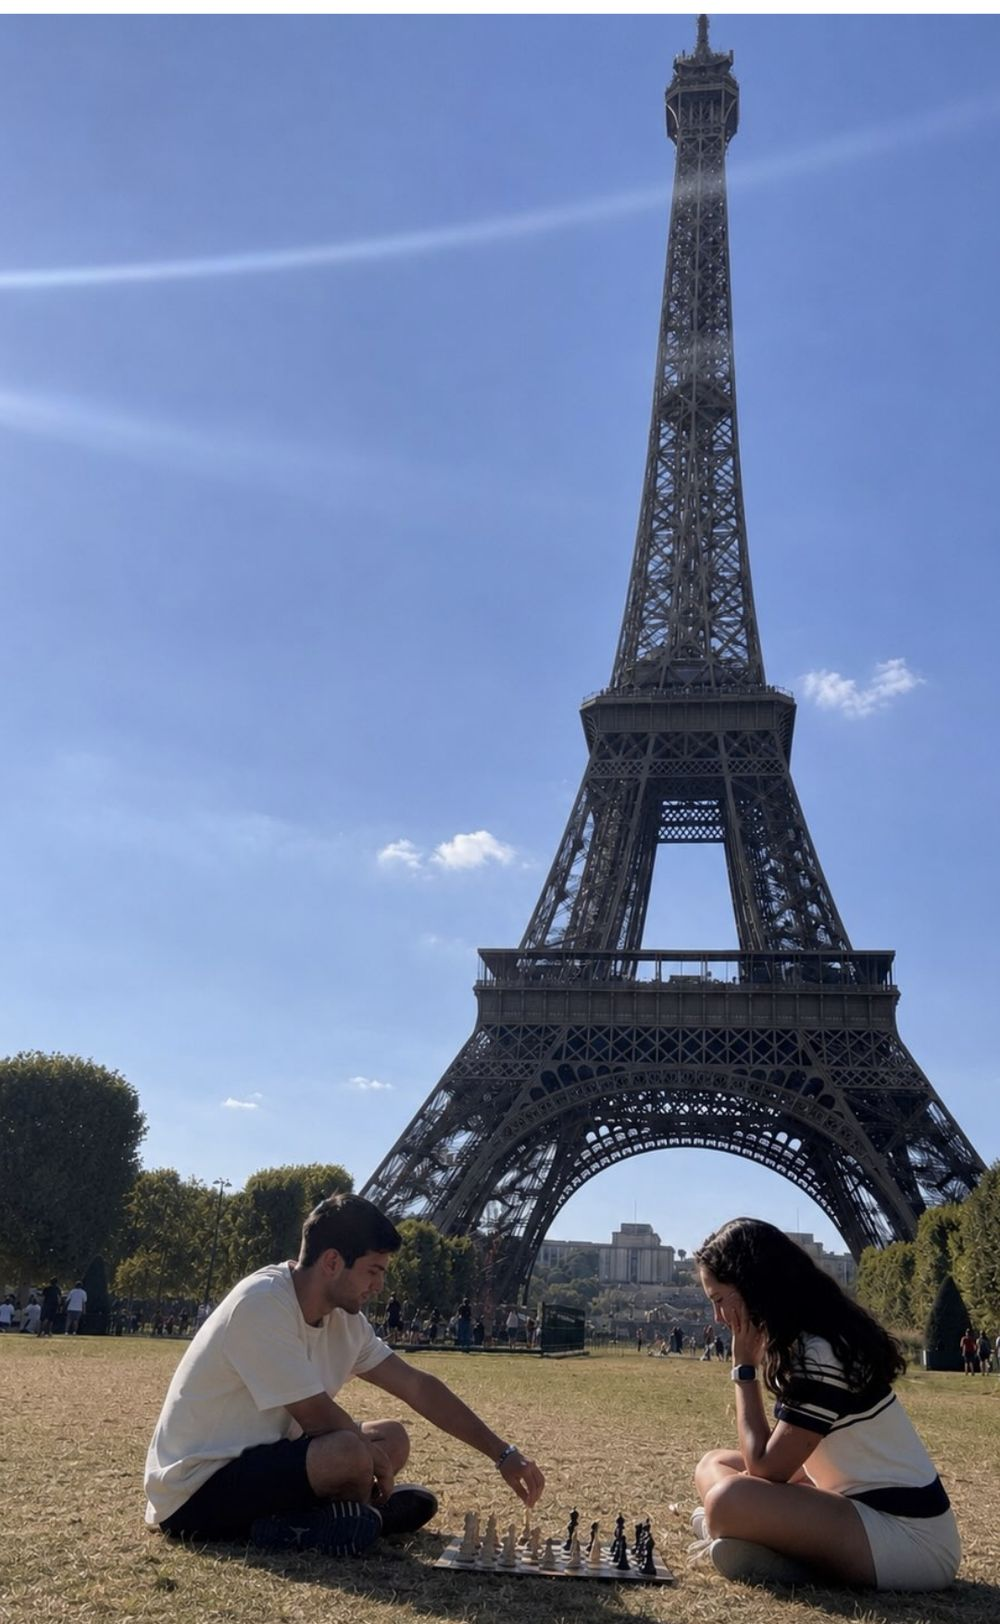
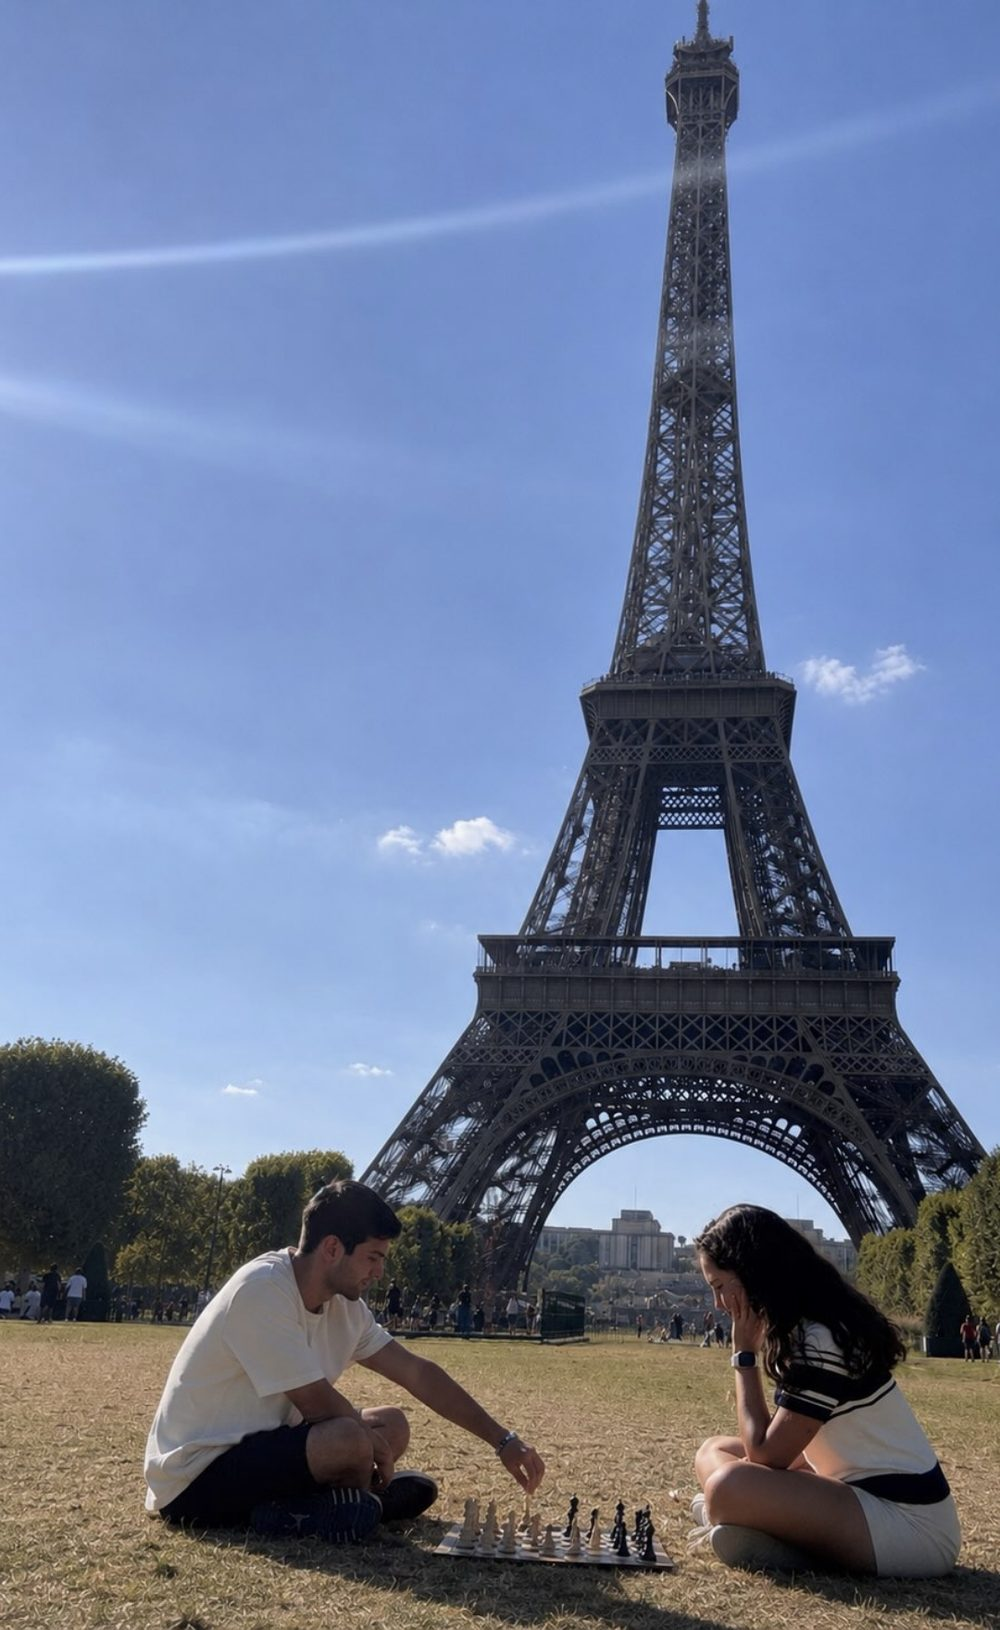
Partidas reales, botones de compartir y foto de París bien recortada
Partidas. El mate de Anastasia pasa a ser también una partida de verdad:
R. Lemon – M. Plum, Open de EEUU, St. Paul 1982, tras 21.Cxc4. Juegan
negras. Reproducida jugada a jugada y verificada con el motor.

De los otros dos no hay partida que poner, y conviene dejarlo dicho: el
legado de Philidor y el mate árabe no nacen de una partida sino de libros
y manuscritos. Del de Philidor sí se cita un caso real documentado,
Grischuk – Ponomariov en Torshavn 2000, en el texto histórico.

Compartir. Botón en la portada, en cada patrón de la sección de historia y
en el pie. Usa el menú del sistema en el móvil, que es lo que abre WhatsApp
o Instagram, y copia el enlace si el navegador no lo admite. Cada patrón
comparte un enlace directo a sí mismo (#patron-2), y al abrir ese enlace el
tablero aparece ya desplegado.

El texto que se copia al terminar el test incluía los perfiles pero no la
dirección de la web. Ahora la lleva, que es lo que puede traer visitas.

Foto. El recorte de la Torre Eiffel arrastraba 15 píxeles de interfaz
blanca arriba y se comía parte de la torre. Los bordes se detectan ahora
por saturación de color en vez de a ojo.

Claude-Session: https://claude.ai/code/session_015nSVDrQ4AEXk9P66mgHvrr

Changed region(s): [[0.0, 0.0, 1.0, 1.0], [0.0, 0.1232, 0.372, 0.1847], [0.341, 0.6466, 0.372, 0.6773]]

diff --git a/src/app.jsx b/src/app.jsx
@@ -9,6 +9,32 @@ const IG_WFM = 'wfm_manuchess';
 const IG_GM = 'gmcardosolab';
 const FIDE_WFM = 'https://ratings.fide.com/profile/4483103';
 const ANIO = new Date().getFullYear();
+const SITIO = 'https://lualeji7509-del.github.io/descubre-tu-elo/';
+
+/* Compartir: en el móvil abre el menú del sistema (WhatsApp, Instagram...);
+   si el navegador no lo admite, copia el enlace al portapapeles. */
+async function compartir({ titulo, texto, url }) {
+  if (navigator.share) {
+    try {
+      await navigator.share({ title: titulo, text: texto, url });
+      return 'nativo';
+    } catch (e) {
+      if (e && e.name === 'AbortError') return 'cancelado';
+    }
+  }
+  const completo = `${texto}\n${url}`;
+  try {
+    await navigator.clipboard.writeText(completo);
+  } catch (e) {
+    const ta = document.createElement('textarea');
+    ta.value = completo;
+    document.body.appendChild(ta);
+    ta.select();
+    document.execCommand('copy');
+    ta.remove();
+  }
+  return 'copiado';
+}
 
 /* ══════════════════════════════ TEXTOS / STRINGS ══════════════════════════ */
 
@@ -74,6 +100,9 @@ const T = {
     noEsLaPartida:
       'Posición de ejemplo, construida para que el patrón se vea claro. No es una partida concreta: este patrón se conoce por libros y manuscritos, no por una partida famosa.',
     gameLabel: 'Partida',
+    share2: 'Compartir',
+    shared: '¡Enlace copiado! Ya lo puedes pegar donde quieras',
+    sharePage: 'Compartir esta página',
     navClasses: 'Clases',
     navLive: 'En directo',
     ctaBook: 'Agenda tu clase',
@@ -152,7 +181,7 @@ const T = {
       {
         era: 'Siglo XVIII',
         name: 'Legado de Philidor',
-        text: 'Lleva el nombre de François-André Danican Philidor (1726–1795), el mejor jugador de su tiempo y además compositor de ópera. Pero no lo inventó él: el patrón ya aparece en el libro de Lucena de 1497. Philidor lo analizó en su tratado de 1749 y fue quien lo popularizó.',
+        text: 'Lleva el nombre de François-André Danican Philidor (1726–1795), el mejor jugador de su tiempo y además compositor de ópera. Pero no lo inventó él: el patrón ya aparece en el libro de Lucena de 1497. Philidor lo analizó en su tratado de 1749 y fue quien lo popularizó. Sigue apareciendo hoy: Grischuk se lo hizo a Ponomariov en Torshavn, en el año 2000.',
       },
       {
         era: '1803',
@@ -189,7 +218,7 @@ const T = {
     ],
     shareText: (elo, lvl, ok, total) =>
       `♟ Descubre tu ELO con los Maestros ♟\n\nMi resultado: ${lvl.t} — ${elo} ELO\n${lvl.s}\n` +
-      `Resolví ${ok} de ${total} problemas de ajedrez.\n\n¿Te atreves a superarme?\n\n` +
+      `Resolví ${ok} de ${total} problemas de ajedrez.\n\n¿Te atreves a superarme?\n${SITIO}\n\n` +
       `WFM Manuela Hernández @${IG_WFM}\nGM José Gabriel Cardoso @${IG_GM}\n\n#Ajedrez #Chess #ELO #DescubreTuELO`,
   },
 
@@ -254,6 +283,9 @@ const T = {
     noEsLaPartida:
       'Example position, built so the pattern reads clearly. It is not one specific game: this pattern is known from books and manuscripts, not from a famous game.',
     gameLabel: 'Game',
+    share2: 'Share',
+    shared: 'Link copied! Paste it wherever you like',
+    sharePage: 'Share this page',
     navClasses: 'Lessons',
     navLive: 'Live',
     ctaBook: 'Book a lesson',
@@ -369,7 +401,7 @@ const T = {
     ],
     shareText: (elo, lvl, ok, total) =>
       `♟ Find your ELO with the Masters ♟\n\nMy result: ${lvl.t} — ${elo} ELO\n${lvl.s}\n` +
-      `I solved ${ok} of ${total} chess puzzles.\n\nThink you can beat me?\n\n` +
+      `I solved ${ok} of ${total} chess puzzles.\n\nThink you can beat me?\n${SITIO}\n\n` +
       `WFM Manuela Hernández @${IG_WFM}\nGM José Gabriel Cardoso @${IG_GM}\n\n#Chess #Ajedrez #ELO #FindYourELO`,
   },
 };
@@ -848,6 +880,35 @@ function App() {
 
   /* Qué patrón de la sección de historia se está mostrando en tablero. */
   const [verPatron, setVerPatron] = useState(null);
+
+  /* Si alguien llega con un enlace del tipo …/#patron-2, se abre ese patrón. */
+  useEffect(() => {
+    const m = /^#patron-(\d+)$/.exec(window.location.hash || '');
+    if (m) {
+      const n = Number(m[1]);
+      setVerPatron(n);
+      setTimeout(() => document.getElementById('patron-' + n)?.scrollIntoView({ block: 'center' }), 300);
+    }
+  }, []);
+
+  /* Compartir un patrón concreto, con enlace directo a él. */
+  async function compartirPatron(i, h) {
+    const url = `${SITIO}#patron-${i}`;
+    const pz = puzzleDeHistoria(h.name);
+    const texto = `♟ ${h.name} (${h.era})${pz && pz.source ? ` — ${pz.source[lang]}` : ''}`;
+    const r = await compartir({ titulo: h.name, texto, url });
+    if (r === 'copiado') showToast(t.shared);
+  }
+
+  /* Compartir la página entera. */
+  async function compartirPagina() {
+    const r = await compartir({
+      titulo: 'Descubre tu ELO con los Maestros',
+      texto: `♟ ${t.title1} ${t.title2} — ${t.tagline}`,
+      url: SITIO,
+    });
+    if (r === 'copiado') showToast(t.shared);
+  }
   const puzzleDeHistoria = (nombre) => all.find((p) => norm(p.theme[lang]) === norm(nombre));
   const heroEra = useMemo(() => {
     if (!heroPuzzle) return '';
@@ -953,7 +1014,13 @@ function App() {
               >
                 {t.heroCta} <span className="inline-block transition group-hover:translate-x-1">→</span>
               </button>
-              <p className="t-label text-ivory/35">{t.heroMeta}</p>
+              <button
+                onClick={compartirPagina}
+                className="t-label text-ivory/45 ring-1 ring-line px-4 py-3 hover:text-gold hover:ring-gold/40 transition"
+              >
+                {t.share2} ↗
+              </button>
+              <p className="t-label text-ivory/35 w-full">{t.heroMeta}</p>
             </div>
           </div>
 
@@ -1244,7 +1311,8 @@ function App() {
             {t.history.map((h, i) => (
               <li
                 key={i}
-                className="reveal bg-ink p-5 sm:p-7 grid sm:grid-cols-[8rem_1fr] gap-2 sm:gap-7 hover:bg-panel transition"
+                id={`patron-${i}`}
+                className="reveal bg-ink p-5 sm:p-7 scroll-mt-20 grid sm:grid-cols-[8rem_1fr] gap-2 sm:gap-7 hover:bg-panel transition"
               >
                 <p className="display text-gold text-2xl sm:text-3xl font-black tabular-nums leading-none">
                   {h.era}
@@ -1268,6 +1336,13 @@ function App() {
                         >
                           {abierto ? t.hideMove : t.showMove}
                           <span aria-hidden="true">{abierto ? '×' : '▸'}</span>
+                        </button>
+                        <button
+                          onClick={() => compartirPatron(i, h)}
+                          className="mt-4 ml-2 inline-flex items-center gap-2 ring-1 ring-line text-ivory/60 t-label px-3 py-2 hover:text-gold hover:ring-gold/40 transition"
+                        >
+                          {t.share2}
+                          <span aria-hidden="true">↗</span>
                         </button>
                         {!abierto && <p className="mt-2 text-[11px] text-ivory/25">{t.spoiler}</p>}
                         {abierto && (
@@ -1404,6 +1479,12 @@ function App() {
               </a>
             ))}
           </div>
+          <button
+            onClick={compartirPagina}
+            className="mt-6 t-label text-gold ring-1 ring-gold/40 px-5 py-3 hover:bg-gold hover:text-ink transition"
+          >
+            {t.sharePage} ↗
+          </button>
           <p className="mt-6 t-label text-ivory/45">
             © {ANIO} Descubre tu ELO · {t.footerRights}
           </p>

diff --git a/puzzles.js b/puzzles.js
@@ -150,12 +150,15 @@ const PUZZLES = [
   {
     level: 'gm',
     rating: 2300,
-    fen: 'r4rk1/pp3ppp/8/3N4/8/R2Q4/PP4PP/6K1 w - - 0 1',
-    solution: ['Ne7+', 'Kh8', 'Qxh7+', 'Kxh7', 'Rh3#'],
+    /* Partida real: R. Lemon – M. Plum, Open de EEUU, St. Paul 1982,
+       tras 21.Cxc4. Juegan NEGRAS. */
+    fen: '1k1r3r/1pp2p2/p2p2p1/3P2p1/2N2n2/2P5/PP3PPP/3R1RK1 b - - 0 21',
+    solution: ['Ne2+', 'Kh1', 'Rxh2+', 'Kxh2', 'Rh8#'],
+    source: { es: 'Lemon – Plum · St. Paul, 1982', en: 'Lemon – Plum · St. Paul, 1982' },
     theme: { es: 'Mate de Anastasia', en: 'Anastasia’s mate' },
     explain: {
-      es: 'El caballo se instala en e7 y quita g8 y g6 al rey. Entonces la dama se entrega en h7 para abrir la columna y la torre remata desde h3.',
-      en: 'The knight settles on e7 and takes g8 and g6 from the king. Then the queen is sacrificed on h7 to open the file, and the rook finishes from h3.',
+      es: 'El caballo salta a e2 y le quita al rey las casillas g1 y g3. Entonces se entrega la torre en h2 para abrir la columna, y la otra torre remata desde h8. Ocurrió en una partida de verdad, en 1982.',
+      en: 'The knight jumps to e2 and takes g1 and g3 from the king. Then a rook is given up on h2 to open the file, and the other rook finishes from h8. It happened in a real game, in 1982.',
     },
   },
 
